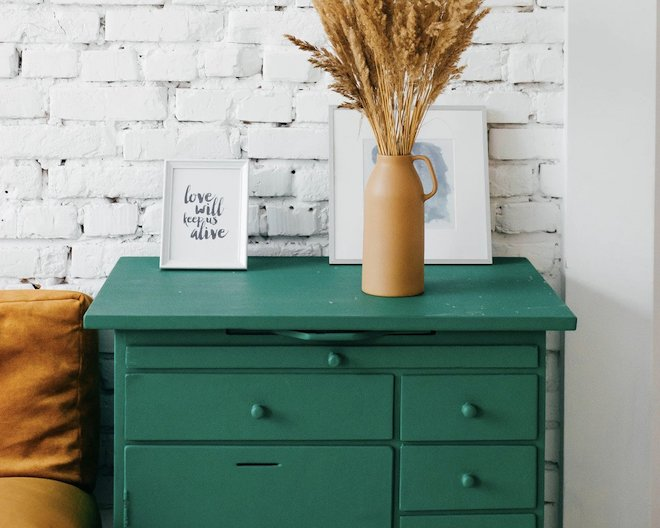
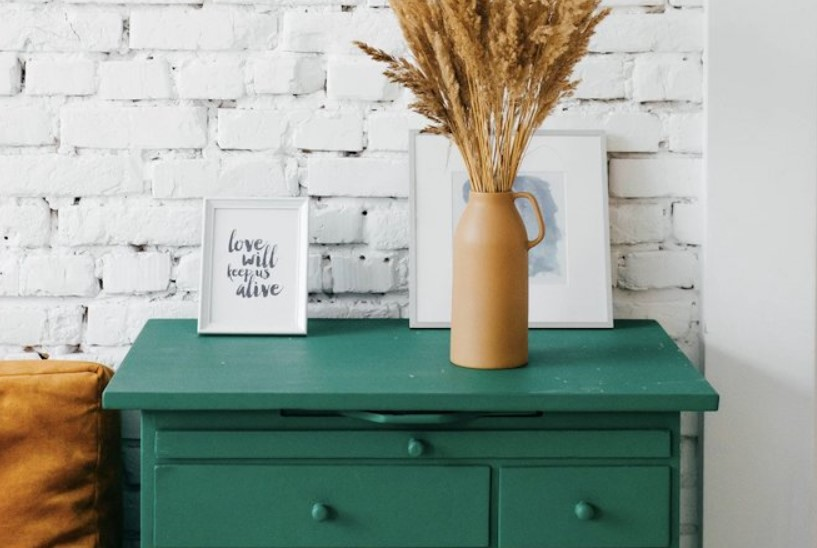
Avance responsive y pruebas hover

diff --git a/NEWBIE/TO-DO article-preview-component-master/styless.css b/NEWBIE/TO-DO article-preview-component-master/styless.css
@@ -19,17 +19,16 @@ h4 {
 h1 {
   font-size: 22px;
   color: var(--Very-Dark-Grayish-Blue);
-  margin-bottom: 18px;
+  margin-bottom: 14px;
   margin-top: 50px;
 }
 p {
   font-size: 13px;
   color: var(--Desaturated-Dark-Blue);
   line-height: 20px;
-  
 }
-h4{
-    color: var(--Very-Dark-Grayish-Blue);
+h4 {
+  color: var(--Very-Dark-Grayish-Blue);
 }
 body {
   background-color: var(--Light-Grayish-Blue);
@@ -44,17 +43,17 @@ main {
 .container {
   display: flex;
   overflow: hidden;
-  border-radius: 20px;
+  border-radius: 10px;
   background-color: white;
   height: 280px;
 }
 .content-main {
-    
   display: flex;
   flex-direction: column;
   justify-content: space-around;
   margin: 40px;
 }
+
 .ambient-img {
   width: 285px;
   height: 280px;
@@ -63,8 +62,8 @@ main {
   height: fit-content;
   width: 400px;
 }
-.content-text p{
-    margin:10px 20px 14px 0 ;
+.content-text p {
+  margin: 10px 20px 14px 0;
 }
 .content-contact {
   display: flex;
@@ -78,22 +77,125 @@ main {
   border-radius: 50%;
   height: 40px;
 }
-.author-info{
-    padding-left: 17px;
+.author-info {
+  padding-left: 17px;
 }
 
 .icon-share {
- background-color: var(--Light-Grayish-Blue);
- width: 40px;
- height: 40px;
- position: relative;
- padding: 12px;
- border-radius: 50%;
+  background-color: var(--Light-Grayish-Blue);
+  width: 40px;
+  height: 40px;
+  padding: 12px;
+  border-radius: 50%;
 }
-svg {
-  background-color: var(--Very-Dark-Grayish-Blue);
-  opacity: 100%;
-  display: flex;
-  justify-items: center;border-radius: 10px;
-  padding: auto;
+ul {
+  list-style-type: none;
+}
+
+.mobile {
+  display: none;
+}
+.ambient-img {
+  background-image: url(images/drawers-mobile.jpg);
+}
+@media screen and (max-width: 770px) {
+  .container {
+    display: flex;
+    flex-direction: column;
+    height: fit-content;
+    width: 330px;
+  }
+  .content-main {
+    margin: 0;
+  }
+.SHARE{
+  letter-spacing: 6px;
+}
+  div.open-share {
+    display: flex;
+    align-items: center;
+    justify-content: space-between;
+    background-color: var(--Very-Dark-Grayish-Blue);
+    position: absolute;
+    left: 0;
+    bottom: -50%;
+    width: 100%;
+    height: 0;
+    overflow: hidden;
+    transition: all 0.4s ease-in-out;
+    opacity: 50%;
+  }
+  .icon-share-active {
+    border-radius: 50px;
+    background-color: red;
+    width: 40px;
+    height: 40px;
+    padding: 12px;
+    margin-left: -16px;
+  }
+  div.open-share.clicked {
+    height: 86px;
+    overflow: auto;
+  }
+  div.open-share div {
+    padding: 5px 30px;
+  }
+  div.open-share > div:first-child {
+    display: flex;
+    align-items: center;
+    justify-content: center;
+    color: var(--Grayish-Blue);
+  }
+  div.open-share > div:first-child ul {
+    display: flex;
+    align-items: center;
+    justify-content: center;
+  }
+  div.open-share > div:first-child ul li {
+    margin: 0 10px;
+  }
+  .content-text {
+    width: 260px;
+    margin: 30px 0px 25px 30px;
+  }
+  .content-ambient-img {
+    width: 100%;
+  }
+  .ambient-img {
+    width: 100%;
+    height: 220px;
+  }
+  .ambient-img {
+    background-image: url(images/drawers.jpg);
+  }
+  .desktop {
+    display: none;
+  }
+  .mobile {
+    display: block;
+  }
+  h1 {
+    font-size: 16px;
+    margin: 0px 0px 8px 0px;
+  }
+  p {
+    font-size: 13px;
+  }
+  .content-text p {
+    margin: 0;
+    width: 256px;
+  }
+  h4 {
+    font-size: 12px;
+  }
+  div.author {
+    margin-left: 25px;
+  }
+  svg.icon-share {
+    margin-right: 25px;
+  }
+  .content-contact {
+    margin: 0px 0px 20px 0px;
+    position: relative;
+  }
 }

diff --git a/NEWBIE/TO-DO article-preview-component-master/index.html b/NEWBIE/TO-DO article-preview-component-master/index.html
@@ -15,8 +15,13 @@
       <section class="container">
         <article class="content-ambient-img">
           <img
-            class="ambient-img"
+            class="ambient-img desktop"
             src="/NEWBIE/TO-DO article-preview-component-master/images/drawers-mobile.jpg"
+            alt="Imagen de ambientación"
+          />
+          <img
+            class="mobile ambient-img"
+            src="/NEWBIE/TO-DO article-preview-component-master/images/drawers.jpg"
             alt="Imagen de ambientación"
           />
         </article>
@@ -42,20 +47,45 @@
               <div class="author-info">
                 <h4>Michelle Appleton</h4>
                 <p>28 Jun 2020</p>
+                
               </div>
             </div>
-
-            <svg
-              class="icon-share"
-              xmlns="http://www.w3.org/2000/svg"
-              width="15"
-              height="13"
-            >
-              <path
-                fill="#6E8098"
-                d="M15 6.495L8.766.014V3.88H7.441C3.33 3.88 0 7.039 0 10.936v2.049l.589-.612C2.59 10.294 5.422 9.11 8.39 9.11h.375v3.867L15 6.495z"
-              />
-            </svg>
+            <div class="icon-active-share">
+              <div class="open-share clicked">
+                <div>
+                  <p class="SHARE">SHARE</p>
+                <ul>
+                  <li><img src="/NEWBIE/TO-DO article-preview-component-master/images/icon-facebook.svg" alt=""></li>
+                  <li><img src="/NEWBIE/TO-DO article-preview-component-master/images/icon-twitter.svg" alt=""></li>
+                  <li> <img src="/NEWBIE/TO-DO article-preview-component-master/images/icon-pinterest.svg" alt=""></li>
+                </ul>
+                </div>
+                <div>
+                  <svg
+                class="icon-share-active"
+                xmlns="http://www.w3.org/2000/svg"
+                width="15"
+                height="13"
+              >
+                <path
+                  fill="#6E8098"
+                  d="M15 6.495L8.766.014V3.88H7.441C3.33 3.88 0 7.039 0 10.936v2.049l.589-.612C2.59 10.294 5.422 9.11 8.39 9.11h.375v3.867L15 6.495z"
+                />
+              </svg>
+                </div>
+              </div>
+              <svg
+                class="icon-share"
+                xmlns="http://www.w3.org/2000/svg"
+                width="15"
+                height="13"
+              >
+                <path
+                  fill="#6E8098"
+                  d="M15 6.495L8.766.014V3.88H7.441C3.33 3.88 0 7.039 0 10.936v2.049l.589-.612C2.59 10.294 5.422 9.11 8.39 9.11h.375v3.867L15 6.495z"
+                />
+              </svg>
+            </div>
           </article>
         </article>
       </section>
